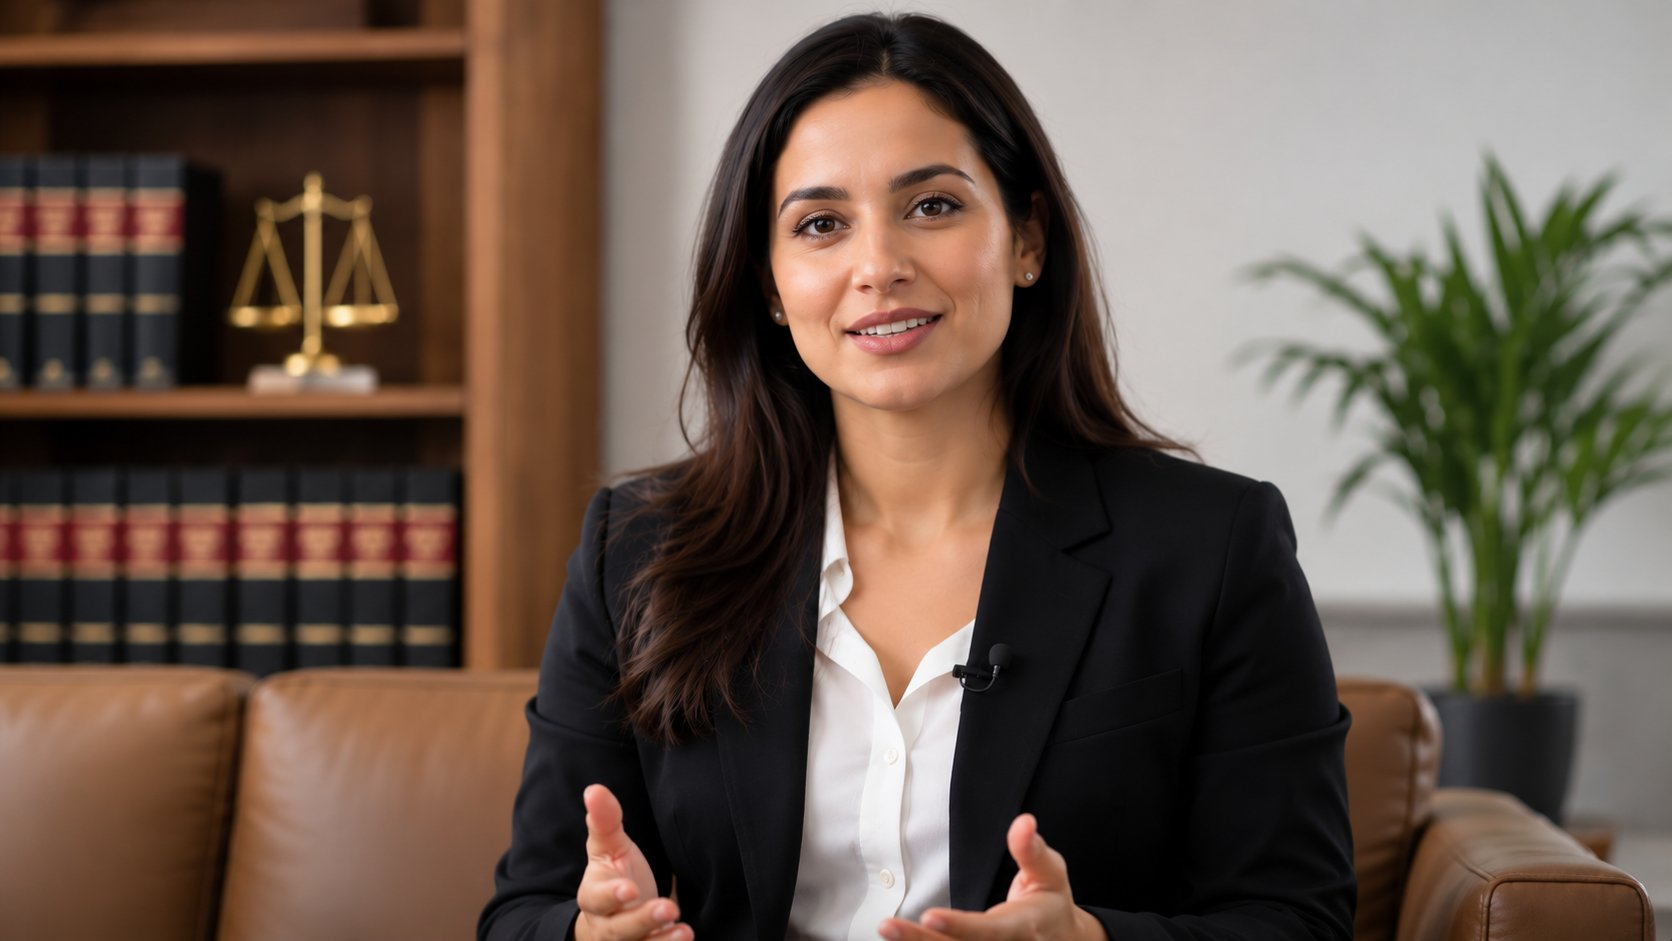
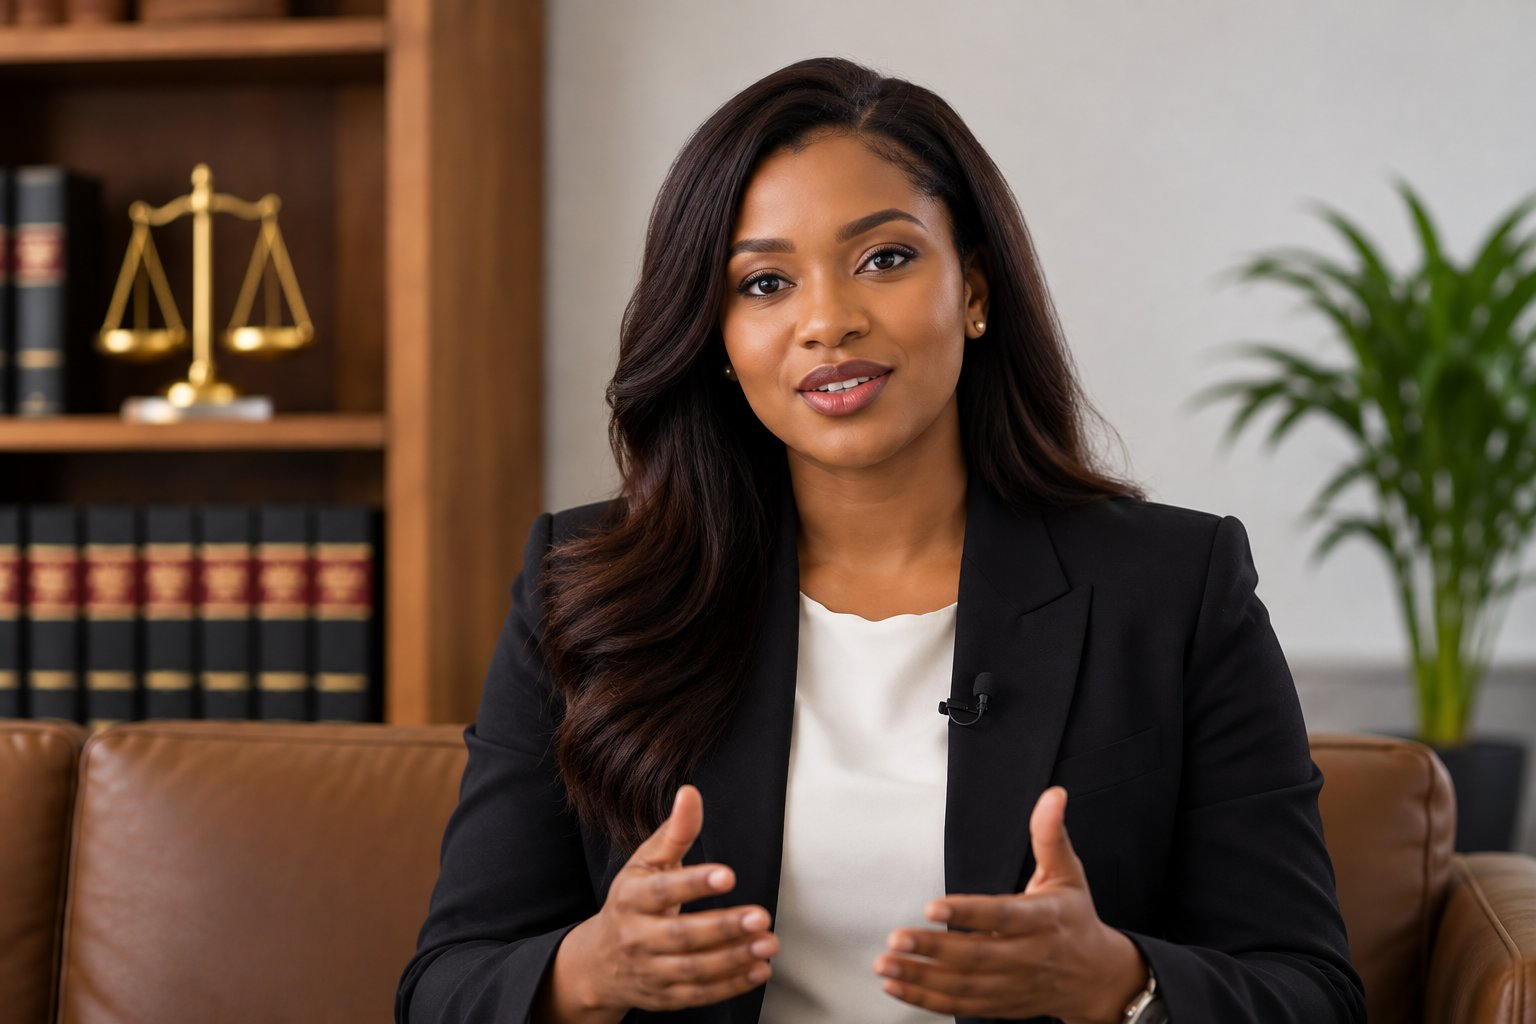
Met à jour les photos de la section Actualités et Vidéos (accueil)
Remplace les photos fournies précédemment par les nouvelles versions :
conférence en salle (news-1), caravane juridique mobile en extérieur
(news-2), et présentatrice pour la vidéo phare (video-featured).
Dimensions mises à jour pour video-featured suite au changement de
format de la nouvelle source.

diff --git a/resources/views/home.blade.php b/resources/views/home.blade.php
@@ -304,8 +304,8 @@
                         <x-picture
                             path="placeholders/video-featured"
                             alt="Présentation de la Clinique Juridique"
-                            width="1672"
-                            height="941"
+                            width="1536"
+                            height="1024"
                             class="block h-full min-h-[180px] w-full object-cover transition duration-300 group-hover:scale-105 sm:min-h-0"
                         />
 
